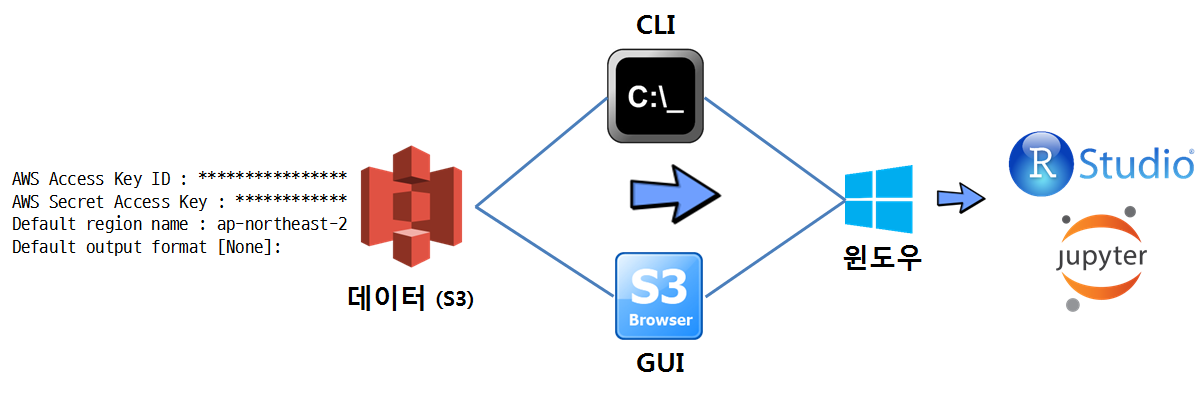
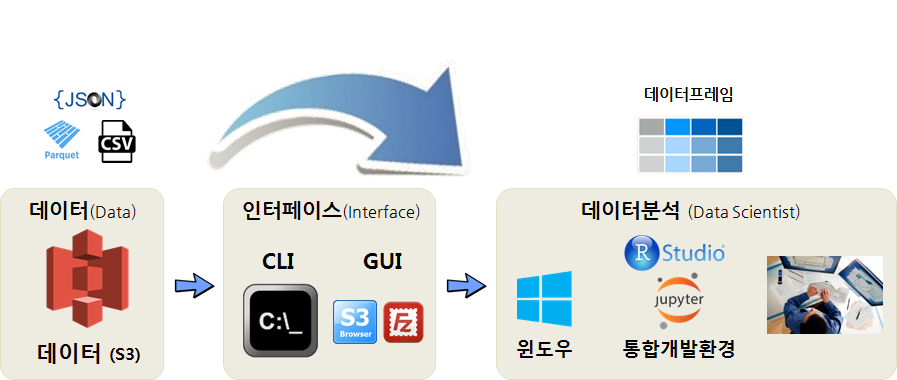
added three scenarios

diff --git a/index.md b/index.md
@@ -27,7 +27,7 @@ subtitle: 데이터 과학자가 바라본 기계학습
 1. [기계학습 운영 및 자동화 - 파이프라인](ml-production.html)
     - **[기계학습 빅데이터 분석환경-AWS스파크](ml-aws-spark.html)**
         1. [AWS RStudio 서버](ds-aws-rstudio-server.html)
-        1. [PC에서 바라본 AWS](ml-aws-from-pc.html)
+        1. [시나리오별 클라우드(AWS) 컴퓨팅 자원을 데이터 과학에 활용](ml-aws-from-pc.html)
         1. [스파크 EC2 클러스터 - 부싯돌(flintrock)](ml-aws-ec2-flintrock.html)
             1. [스파크 EC2 클러스터 - 데이터과학 툴체인(R, sparklyr)](ml-aws-ec2-flintrock-sparklyr.html)
         1. [EMR 스파크 클러스터 - wadal](ml-emr-wadal.html)
